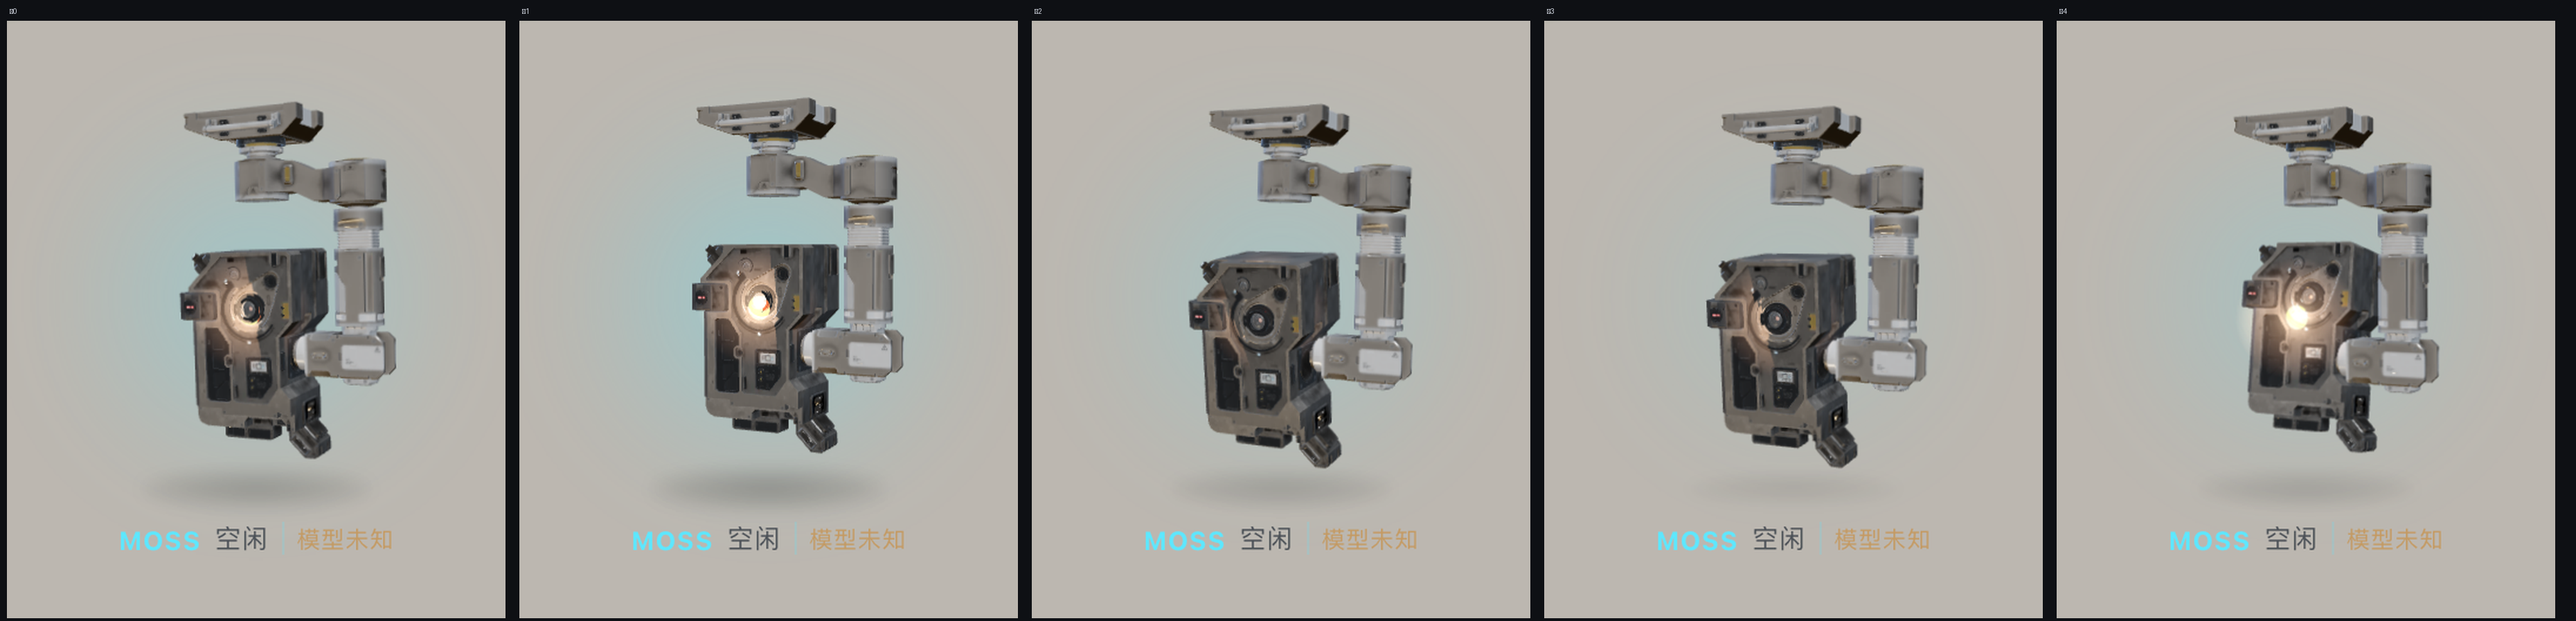
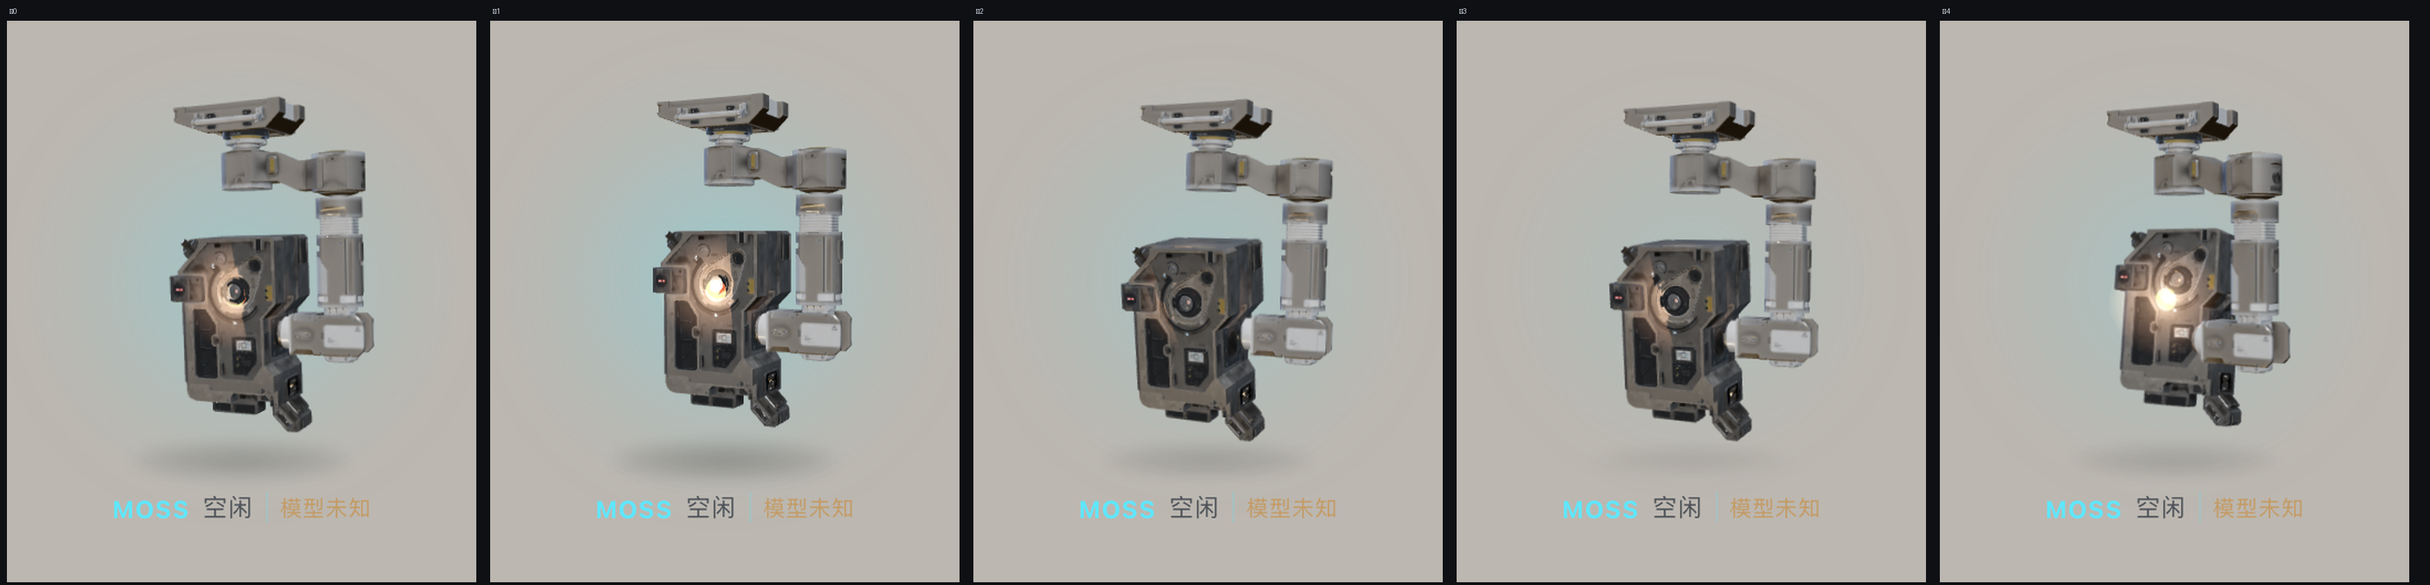
feat(moss): 加大 J1/J2 偏航幅度（±20°/∓10°），三个关节均可见
真机量化：上臂 11~18、机身 11~18、顶部横梁 0.5~1.0（不动）
- J1 ±20° 偏航、J2 ∓10° 偏航、J3 点头 +10/−9°
- 素材版本 v65

diff --git a/assets3d/boot.js b/assets3d/boot.js
@@ -284,9 +284,9 @@ export function createMoss3D(canvas, opts) {
     {
       const POSES = [
         { a1: 0, a2: 0, a3: 0 },
-        { a1: 6, a2: -3, a3: 10 },
-        { a1: -5, a2: 3, a3: -9 },
-        { a1: 3, a2: -2, a3: 5 },
+        { a1: 20, a2: -10, a3: 10 },
+        { a1: -18, a2: 9, a3: -9 },
+        { a1: 9, a2: -4, a3: 5 },
         { a1: 0, a2: 0, a3: 0 },
       ]
       const SEG = working ? 1.1 : 1.7

diff --git a/client/client.js b/client/client.js
@@ -37,7 +37,7 @@ window.__ModuleLoader__.load({
     var ROOT_ID = 'dsh-pet-liang-root'
     var POS_KEY = 'dsh-pet-liang:pos'
     /* 素材改了名字没变，加一个版本号强制浏览器重新取（宿主给的是 immutable 缓存） */
-    var ASSET_V = '64'
+    var ASSET_V = '65'
     var STYLE_ID = 'dsh-pet-liang-style'
 
     /** 四档推理等级对应的称呼与氛围色。 */

diff --git a/README.md b/README.md
@@ -115,6 +115,7 @@ MOSS 形象不再用预渲染 PNG，而是**在插件里实时渲染你提供的
   - **J3 手腕**：绕**水平轴前后点头**，只带机身（即"点头"效果）
   - 枢轴用拟合圆圆心：J1 (x=−0.37, y=79.9, z=18.04)、J2 (x=32.92, y=60.6, z=18.04)；J3 取手块与机身接合处
   - 手块归 J2（与手臂一体），只有机身绕 J3
+  - 幅度：J1 ±20°、J2 ∓10°、J3 点头 +10/−9°；执行态 ×1.3 幅度、×2.6 速度
 
 - **相机**：必须用 3/4 视角（方位角 26°）。正对时绕垂直轴的偏航是「往屏幕里外摆」，肉眼几乎看不出；3/4 下才明显。
 - **缓存**：`boot.js` 的请求带 `?v=`，宿主对 `.js` 返回 `no-cache`——之前没带版本，桌面端可能一直执行旧缓存。
